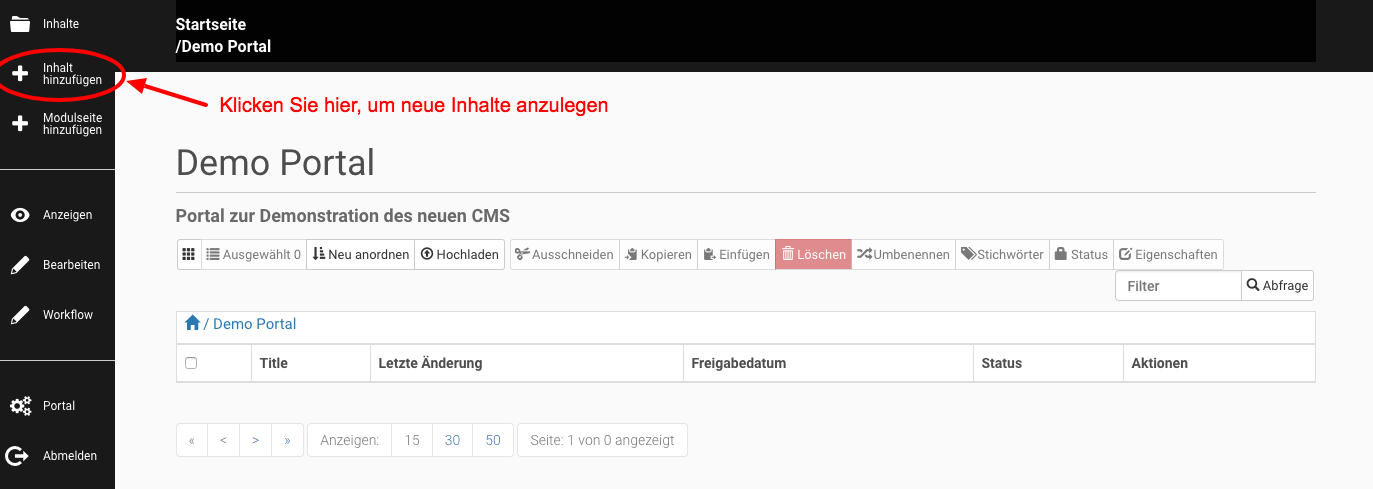
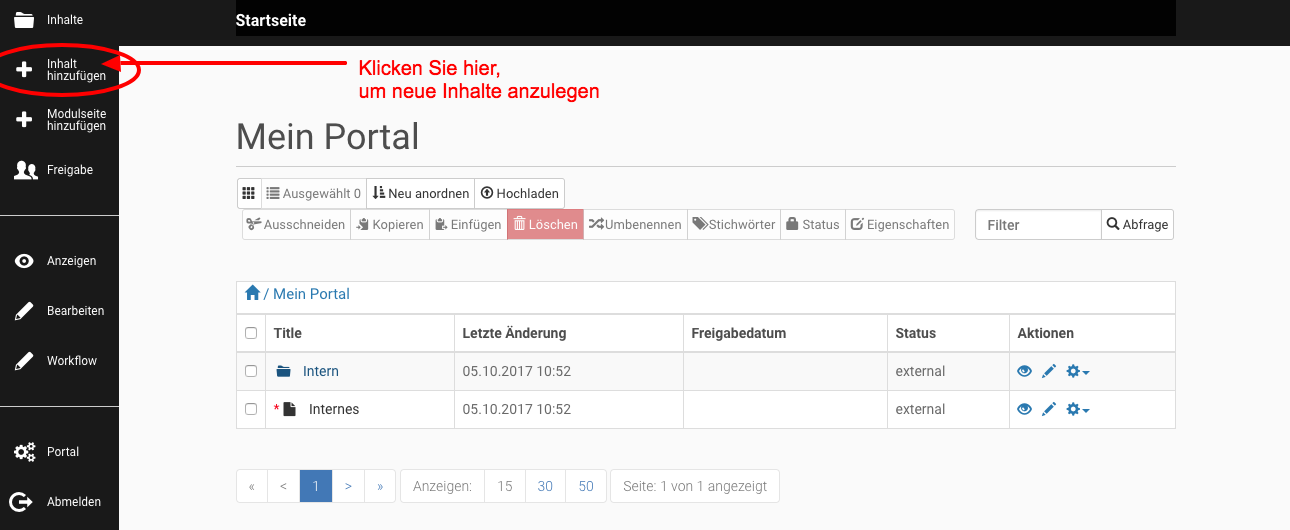
added screenshots and texts to tutorial page #15949

Changed region(s): [[0.0, 0.0307, 1.0, 1.0], [0.124, 0.4908, 0.9612, 0.7975], [0.2171, 0.8896, 0.5891, 0.9509]]

diff --git a/_posts/konzepte/2017-09-29-tutorial-neues-portal.md b/_posts/konzepte/2017-09-29-tutorial-neues-portal.md
@@ -15,42 +15,96 @@ breadcrumbs:
 - title: Unterstützung
 ---
 
-Dieses Tutorial zeigt Ihnen, wie Sie in einem neu angelegten Portal erste Inhalte anlegen und auf einer Startseite präsentieren. 
+Hier lernen Sie, wie Sie in einem neu angelegten Portal erste Inhalte anlegen und auf einer Startseite präsentieren. 
 
-### Was ist ein Portal?
+Das Tutorial ist aufgegliedert in die folgenden Lernabschnitte:
 
-Ein Portal besteht aus Modulseiten und Inhaltsseiten. Für Ihre Site benötigen Sie Inhalte und Modulseiten. Inhalte sind Texte, Bilder, Nachrichten und Termine. Modulseiten zeigen diese Inhalte dann strukturiert an. Deshalb beginnen Sie am besten mit einigen Inhaltsseiten. (Nähere Informationen zu Inhaltsseiten, Modulseiten und Modulen finden Sie <a href="/kommsite-howto-2">hier</a>)
+[1. Was ist ein Portal](#1-was-ist-ein-portal)
 
-Wenn Sie eingeloggt sind und die Berechtigung haben, das Portal zu bearbeiten, sehen Sie am linken Rand der Ansicht die Werkzeugleiste. 
+[2. Anmelden um ein Portal zu bearbeiten](#2-anmelden-um-ein-portal-zu-bearbeiten)
+
+[3. Inhalte verwalten in einem Portal](#3-inhalte-verwalten-in-einem-portal)
+
+[4. Inhaltsseiten erstellen und bearbeiten](#4-inhaltsseiten-erstellen-und-bearbeiten)
+
+[5. Modulseiten erstellen und bearbeiten](#5-modulseiten-erstellen-und-bearbeiten)
+
+[6. Module einer Modulseite hinzufügen und bearbeiten](#6-module-einer-modulseite-hinzufügen-und-bearbeiten)
+
+[7. Hero-Bild für Ihre Modulseite einrichten](#7-hero-bild-für-ihre-modulseite-einrichten)
+
+[8. Seite als Startseite für ein Portal einrichten](#8-seite-als-startseite-für-ein-portal-einrichten)
+
+[9. Navigation für ein Portal einrichten](#9-navigation-für-ein-portal-einrichten)
+
+
+### 1. Was ist ein Portal?
+
+Ein Portal ist ein eigener "Bereich" innerhalb des UniBwM-Webauftritts. Es besteht aus Modulseiten und Inhaltsseiten sowie einer Navigation, die den Besucher auf die Bereiche Ihres Portals führt. 
+
+Für Ihr Portal benötigen Sie Inhalte und Modulseiten. 
+Inhaltsseiten beinhalten die Informationen, die Sie Besuchern der Seite vermitteln wollen. Das können Artikel, Bilder, Nachrichten, Termine und andere Inhaltstypen sein.
+Modulseiten sind "Überblicks-Seiten", sie sollen den Besucher durch Ihr Portal führen. Dazu werden Modulseiten aus mehreren Modulen aufgebaut, die Informationen enthalten. 
+Die meisten Module sind eine Art Teaser auf Ihre Inhaltsseiten. 
+
+Nähere Informationen zu Inhaltsseiten, Modulseiten und Modulen finden Sie <a href="/kommsite-howto-2">hier</a>
+
+### 2. Anmelden um ein Portal zu bearbeiten
+
+Um Ihr eigenes Portal innerhalb des UniBW Webauftrittes zu bearbeiten, müssen Sie sich zuerst auf dem Server anmelden.
+Dazu rufen Sie die URL Ihres Portals in einem Browser Ihrer Wahl auf, die Sie vom ServiceDesk des Rechenzentrums erhalten haben. Z.B. 
+"https://staging.rz.unibw-muenchen.de/mein-portal"  und klicken Sie im Footer auf "Login".
+
+<img src="media/kommsite/screens_howtos/howto_portal_login_link.png">
+
+Geben Ihre **RZ-Kennung** und Ihr **Passwort** in die Anmeldemaske ein und klicken Sie auf "Anmelden".
+
+<img src="media/kommsite/screens_howtos/howto_portal_login.png">
+
+Sie sind nun auf Ihrem eigenen Portal des Webauftrittes der UniBwM eingeloggt und können dieses nach Ihren Wünschen und Vorstellungen gestalten.
+
+### 3. Inhalte verwalten in einem Portal
+
+Wenn Sie angemeldet sind und die Berechtigung haben, das Portal zu bearbeiten, sehen Sie am linken Rand der Ansicht die Werkzeugleiste.
+
+Klicken Sie in der Werkzeugleiste auf "Inhalte". 
 
 <img src="media/kommsite/screens_howtos/howto_portal_werkzeugleiste.png">
 
-### Inhalte verwalten in einem Portal
+Falls Sie keine Werkzeugleiste sehen, wenden Sie sich bitte an das WebTeam unter <a class="btn btn-lg btn-theme-colored" href="mailto:support@unibw.de"><i class="fa fa-envelope-o"></i> support@unibw.de</a>
 
-Klicken Sie in der Werkzeugleiste auf "Inhalte". Dies ist die Ansicht, in der Sie bestehende Inhalte verwalten und neue hinzufügen können. Momentan ist hier noch nicht viel zu sehen. Sobald Sie neue Inhalte anlegen werden diese hier aufgelistet.
+Dies ist die Ansicht, in der Sie bereits vorhandene Inhalte verwalten und neue hinzufügen können. Momentan ist hier noch nicht viel zu sehen, da Ihr Portal außer einem vorangelegten Ordner "Intern" und einer Seite "Internes" noch keine Inhalte enthält. 
+
+Sobald Sie neue Inhalte anlegen werden diese hier aufgelistet.
 
 <img src="media/kommsite/screens_howtos/howto_portal_folder_contents.png">
 
-### Inhalte anlegen in einem Portal
+### 4. Inhaltsseiten erstellen und bearbeiten
 
-Klicken Sie auf "Inhalt hinzufügen". 
+Um Informationen auf Ihrem Portal bereitzustellen benötigen wir zuerst einige Inhaltsseiten. die diese Informationen enthalten.
+
+Klicken Sie auf "Inhalt hinzufügen" um eine Inhaltsseite zu erstellen. 
 
 <img src="media/kommsite/screens_howtos/howto_portal_add_content.png">
 
 Es öffnet sich ein Dialog, der verschiedene Typen von Inhaltsseiten anbietet. 
-Wählen Sie die "Artikelseite". Dies ist eine generische Inhaltsseite, die sich für verschiedenste Arten von Inhalten eignet.
+Wählen Sie die "Artikelseite". Dies ist eine generische Inhaltsseite, die sich für verschiedenste Arten von Inhalten wie Texte, Auflistungen, Bilder usw. eignet.
 
 <img src="media/kommsite/screens_howtos/howto_portal_add_article.png">
 
-Im folgenden Formular geben Sie einen Titel ein, der als Überschrift für Ihre Seite fungiert. Geben Sie im Feld "Beschreibung" ein oder zwei Sätze ein, die den Inhalt kurz zusammenfassen. Die Beschreibung ist optional; es empfiehlt sich aber, sie zu verwenden, da viele Module darauf zurück greifen. Unter "Text" erstellen Sie den eigentlichen Inhalt. Sie können hier auch z.B. Links setzen und Bilder einbinden. Ein besonders repräsentatives Bild sollten Sie im Feld "Teaserbild" auswählen. Das Teaserbild wird von verschiedenen Modulen benutzt, um eine Vorschau auf Inhalte darzustellen. Die weiteren Felder lassen Sie auf den Standardeinstellungen und klicken "Speichern". 
+Im folgenden Formular geben Sie einen Titel ein, der als Überschrift für Ihre Seite angezeigt wird. Geben Sie im Feld "Beschreibung" ein oder zwei Sätze ein, die den Inhalt kurz zusammenfassen. Die Beschreibung ist optional; es empfiehlt sich aber, sie zu verwenden, da viele Module darauf zurück greifen. Unter "Text" erstellen Sie den eigentlichen Inhalt. Sie können hier auch z.B. Links setzen und Bilder einbinden. Ein besonders repräsentatives Bild sollten Sie im Feld "Teaserbild" auswählen. Das Teaserbild wird später von verschiedenen Modulen benutzt, um eine Vorschau auf die Inhaltsseite darzustellen. 
+Die weiteren Felder lassen Sie auf den Standardeinstellungen und klicken "Speichern". 
 
 <img src="media/kommsite/screens_howtos/howto_portal_edit_article.png">
 
 Sie sehen jetzt Ihre neu angelegte Inhaltsseite!
 
-Um noch etwas mehr Material für eine Modulseite zu haben, legen Sie zunächst noch eine Nachricht an. Klicken Sie wieder in der Werzeugleiste auf "Inhalte" und dann auf "Inhalt hinzufügen". Wählen Sie diesmal den Typ "Nachricht". Diese Art von Inhaltsseite ist für eine aktuelle Mitteilung gedacht. Auch hier füllen Sie Titel, Beschreibung und Text aus. Unter "Teaserbild" wählen Sie ein Bild, das die Nachricht begleitet, d.h. in Nachrichtenübersichten u.ä. angezeigt wird. Die "Legende zum Teaserbild" sollte ein Wort oder ein kurzer Satz als Bildunterschrift sein. Klicken Sie auf Speichern und sehen Sie sich Ihre frisch erstellte Nachricht an!
+Um noch etwas mehr Material für eine Modulseite zu haben, legen Sie auf diese Weise gleich noch ein paar weitere Inhaltsseiten an. 
 
-### Modulseite anlegen in einem Portal
+### 5. Modulseiten erstellen und bearbeiten
+
+Wie oben bereits erklärt gibt es neben den Inhaltsseiten die Modulseiten, in denen wir verschiedene Inhalte miteinander kombinieren können.<br />
+Modulseiten sind Überblicksseiten, die den Besucher auf die einzelnen Inhaltsseiten führt.
 
 Nun legen Sie eine Modulseite als Startseite für das Portal an. 
 
@@ -58,38 +112,173 @@ Dazu gehen Sie wieder in die "Inhalte"-Ansicht und wählen diesmal "Modulseite h
 
 <img src="media/kommsite/screens_howtos/howto_portal_add_mpage.png">
 
-Der folgende Dialog bietet verschiedene Vorlagen zur Auswahl, die bereits mit einigen Modulen vorbelegt sind. Fürs Erste wählen Sie einfach die "Leere Modulseite", geben Sie einen Titel ein (z.B. "Startseite") und klicken "Eine Seite mit dieser Vorlage anlegen".
+Der folgende Dialog bietet verschiedene Vorlagen zur Auswahl, die bereits mit einigen Modulen vorbelegt sind. Für Ihre Startseite wählen Sie einfach die "Leere Modulseite", geben Sie einen Titel ein (z.B. "Startseite") und klicken "Eine Seite mit dieser Vorlage anlegen".
 
 <img src="media/kommsite/screens_howtos/howto_portal_add_empty_mpage.png">
 
-### Module einer Modulseite hinzufügen und bearbeiten
+### 6. Module einer Modulseite hinzufügen und bearbeiten
 
-Sie gelangen als nächstes zur Bearbeitungsansicht Ihrer neuen Modulseite. Sie sehen das einzige enthaltene Modul, den Aufmachertext, als Kasten mit einer Vorschau auf den Inhalt. Klicken Sie das Modul an. Es erscheinen Schaltflächen zum Bearbeiten und Löschen. 
+Sie gelangen als nächstes zur Bearbeitungsansicht Ihrer neuen Modulseite. Hier werden die Module hinzugefügt, die die Modulseite aufbauen.<br />
+Ein “Modul” ist ein vollbreiter Block auf einer Webseite, der Informationen - also “Inhalte” - enthält.
 
-<img src="media/kommsite/screens_howtos/howto_portal_show_module.png">
+Sie sehen auf Ihrer neu angelegten Modulseite das einzige enthaltene Modul, den Aufmachertext, als Kasten mit einer Vorschau auf den Inhalt.<br />
+Klicken Sie das Modul an. Es erscheinen Schaltflächen zum Bearbeiten und Löschen. 
+
+<img src="media/kommsite/screens_howtos/howto_portal_edit_module.png">
 
 Klicken Sie "Bearbeiten" und ersetzen Sie den Platzhaltertext durch einen eigenen Text. Klicken Sie danach "Sichern". 
 
-<img src="media/kommsite/screens_howtos/howto_portal_edit_module.png">
+<img src="media/kommsite/screens_howtos/howto_portal_show_module.png">
 
 Das Aufmachertext-Modul wird aktualisiert und Sie sehen Ihren Text in der Vorschau.
 
 <img src="media/kommsite/screens_howtos/howto_portal_show_changes.png">
 
-Beachten Sie, dass Ihre Änderungen noch nicht aktiv sind, so lange Sie noch in der Bearbeitungsansicht sind. Bestätigen Sie jetzt Ihre Änderungen an der Modulseite mit der "Speichern"-Schaltfläche unterhalb des Modulvorschau-Bereichs. 
+Beachten Sie, dass Ihre Änderungen noch nicht aktiv sind, so lange Sie noch in der Bearbeitungsansicht sind. 
+
+Bestätigen Sie jetzt Ihre Änderungen an der Modulseite mit der "Speichern"-Schaltfläche unterhalb des Modulvorschau-Bereichs. 
 
 <img src="media/kommsite/screens_howtos/howto_portal_page_save.png">
 
-Sie gelangen zur Standardansicht der Modulseite und Ihre Änderungen sind jetzt gespeichert und sichtbar. Der Text, den Sie in das Aufmachertext-Modul eingegeben haben, wird unterhalb der Überschrift dargestellt.
+Sie gelangen zur Standardansicht der Modulseite und Ihre Änderungen sind jetzt gespeichert und sichtbar.<br />
+Der Text, den Sie in das Aufmachertext-Modul eingegeben haben, wird unterhalb der Überschrift dargestellt.
 
 <img src="media/kommsite/screens_howtos/howto_portal_page_view.png">
 
-Nun wird es Zeit, die Inhaltsseiten einzubinden. Beginnen Sie mit der Artikelseite. Dazu aktivieren Sie wieder über die Schaltfläche "Bearbeiten" in der Werkzeugleiste den Bearbeitungsmodus der Modulseite. Klicken Sie nun in der Werkzeugleiste auf "Modul einfügen". Wählen Sie aus den angebotenen Modulen "Text mit Bild oder Video". Sie sehen das neue Modul als Kasten, der Ihrem Mauszeiger folgt. Wenn Sie den Kasten in die Nähe des vorhandenen Moduls bewegen, erscheint eine blaue Linie, die signalisiert, dass das Modul an dieser Stelle eingefügt wird. Wenn diese Linie erscheint, klicken Sie die linke Maustaste. Das Modul erscheint an der entsprechenden Stelle.
+Nun wird es Zeit, die Inhaltsseiten einzubinden. 
 
-Klicken Sie nun das neue Modul an und wählen Sie, wie zuvor beim Aufmachertext, "Bearbeiten". Im Formular, das sich öffnet, wählen Sie unter "Element auswählen" die zuvor angelegte Artikelseite, indem Sie zunächst auf "Browsen" klicken. Dadurch erscheint eine Liste der Inhalte im Portal. Wählen Sie daraus Ihre Artikelseite aus. Die restlichen Formularelemente beschäftigen sich mit Layouteinstellungen und können zunächst auf den Standardwerten belassen werden. Nach einem Klick auf "Sichern" sehen Sie wieder die Bearbeitungsansicht der Modulseite. In Ihrem neuen Modul wird nun der Titel der gewählten Artikelseite angezeigt.
+Dazu wechseln Sie wieder über die Schaltfläche "Bearbeiten" in der Werkzeugleiste in den Bearbeitungsmodus der Modulseite. 
 
-Als nächstes fügen Sie ein Nachrichten-Modul hinzu, das die zuvor erstellte Nachricht und zukünftig erstellte Nachrichten darstellt. Klicken Sie in der Werkzeugleiste wieder "Modul einfügen" und wählen Sie diesmal das Modul "Nachrichten". Wie das vorige Modul fügen Sie es mit einem Mausklick ein, wenn die blaue Linie an der richtigen Stelle ist. Versuchen Sie, das neue Modul zwischen den beiden existierenden Modulen einzufügen.
+<img src="media/kommsite/screens_howtos/howto_portal_page_edit.png">
 
-Dieses Modul zeigt mit den Standardeinstellungen bereits die im Portal vorhandenen Nachrichten an. Sie brauchen es also nicht zu bearbeiten. Klicken Sie direkt "Speichern" um das Bearbeiten der Modulseite zu beenden. Sie gelangen wieder zur Standardansicht. Jetzt befinden sich unterhalb des Aufmachertextes ihre beiden neuen Module: Das Nachrichten-Modul zeigt die zuvor angelegte Nachricht an, und das "Text mit Bild oder Video"-Modul zeigt Titel, Beschreibung und Teaserbild Ihrer Artikelseite an. Klicken Sie eines der Module an, um zu den Inhaltsseiten zu gelangen und die kompletten Texte zu sehen.
+Klicken Sie nun in der Werkzeugleiste auf "Modul einfügen". 
 
-Damit Ihre neue Modulseite als Startseite des Portals angezeigt wird, gehen Sie über die Werkzeugleiste in die "Inhalte"-Ansicht. Finden Sie in der Tabelle Ihre Modulseite und klicken Sie in der letzten Spalte das Zahnradsymbol an. Im Kontextmenü wählen Sie die Option "Als Standardseite festlegen". Nun sieht ein Besucher Ihres Portals zuerst die von Ihnen gestaltete Modulseite!
+<img src="media/kommsite/screens_howtos/howto_portal_module_add.png">
+
+Es erscheint eine Liste der verfügbaren Module. Scrollen Sie nun mit der Maus nach unten und Wählen Sie das Modul"Text mit Bild oder Video". 
+
+<img src="media/kommsite/screens_howtos/howto_portal_module_select.png">
+
+Sie sehen das neue Modul als Kasten, der Ihrem Mauszeiger folgt. Wenn Sie den Kasten in die Nähe des vorhandenen Moduls bewegen, erscheint eine blaue Linie, die signalisiert, dass das Modul an dieser Stelle eingefügt wird. Wenn diese Linie erscheint, klicken Sie die linke Maustaste. Das Modul erscheint an der entsprechenden Stelle.
+
+<img src="media/kommsite/screens_howtos/howto_portal_module_insert.png">
+
+Klicken Sie nun das neue Modul an und wählen Sie, wie zuvor beim Aufmachertext, "Bearbeiten". 
+
+Im Formular, das sich öffnet, wählen Sie unter "Element auswählen" die zuvor angelegte Artikelseite, indem Sie zunächst auf "Browsen" klicken. <br />
+Dadurch erscheint eine Liste der Inhalte im Portal.<br />
+Wählen Sie daraus Ihre Artikelseite aus. 
+
+<img src="media/kommsite/screens_howtos/howto_portal_module_new_browse.png">
+
+Die restlichen Formularelemente beschäftigen sich mit Layouteinstellungen und können zunächst auf den Standardwerten belassen werden.<br />
+Nach einem Klick auf "Sichern" sehen Sie wieder die Bearbeitungsansicht der Modulseite. 
+
+<img src="media/kommsite/screens_howtos/howto_portal_module_new_edit.png">
+
+In Ihrem neuen Modul wird nun der Titel der gewählten Artikelseite angezeigt.<br />
+Kicken Sie auf die Schaltfläche "Speichern" am unteren Ende der Seite, um die Änderungen an Ihrer Modulseite zu speichern.
+
+<img src="media/kommsite/screens_howtos/howto_portal_module_new_save.png">
+
+### 7. Hero-Bild für Ihre Modulseite einrichten
+
+Um die Modulseite noch etwas ansprechender zu gestalten können Sie für den Header-Bereich der Seite eine seitenbreite Hintergrundgrafik - ein Hero-Bild - einfügen.
+
+Wechseln Sie dazu zuerst wieder in den Bearbeiten-Modus der Modulseite, indem Sie auf die Schaltfläche "Bearbeiten" in der Werkzeugleiste klicken.
+
+<img src="media/kommsite/screens_howtos/howto_portal_page_edit_hero.png">
+
+Dann klicken Sie auf die Schaltfläche "Eigenschaften" in der Werkzeugleiste um die Objekteigenschaften der Seite zu bearbeiten.
+
+<img src="media/kommsite/screens_howtos/howto_portal_page_settings_open.png">
+
+Sie sehen verschiedene Reiter, die unterschiedliche Eigenschaften der Seite bearbeitbar machen. 
+
+Wählen Sie den Reiter "Standard". 
+
+<img src="media/kommsite/screens_howtos/howto_portal_page_settings_default.png">
+
+Hier finden Sie die aktuellen Werte für Titel und Beschreibungstext der Modulseite. 
+
+Um ein Hero-Bild für die Seite anzugeben, müssen Sie unter "Teaserbild" eine von Ihnen gewünschte Bilddatei auf Ihrer lokalen Festplatte auswählen.<br />
+Es ist auch möglich hier mehrere Bilder in einem Karussell anzuzeigen oder eine Video-Datei einzubinden. <br />
+Für unser Beispiel wählen Sie aber bitte die Option "Teaserbild" für den Aufmacherbereich aus.
+
+Klicken Sie auf "Sichern", um die Änderungen zu speichern
+
+<img src="media/kommsite/screens_howtos/howto_portal_page_settings_edit.png">
+
+Kicken Sie dann auf die Schaltfläche "Speichern" am unteren Ende der Seite, um die Änderungen an Ihrer Modulseite zu speichern und die Seite anzuzeigen.
+
+Die Modulseite enthält nun ein Hero-Bild als Hintergrund für den Headerbereich.
+
+<img src="media/kommsite/screens_howtos/howto_portal_page_hero_view.png">
+
+### 8. Seite als Startseite für ein Portal einrichten
+
+Damit Ihre neue Modulseite als Startseite des Portals angezeigt wird, gehen Sie über die Werkzeugleiste in die "Inhalte"-Ansicht. 
+
+Finden Sie in der Tabelle Ihre Modulseite und klicken Sie in der letzten Spalte das Zahnradsymbol an. Im Kontextmenü wählen Sie die Option "Als Standardseite festlegen". 
+
+<img src="media/kommsite/screens_howtos/howto_portal_set_default_page.png">
+
+Nun sieht ein Besucher Ihres Portals zuerst die von Ihnen gestaltete Modulseite!
+Sie erkennen die Startseite eines Portals oder Ordners der Markierung in der Listenansicht (rotes Sternchen).
+
+<img src="media/kommsite/screens_howtos/howto_portal_mark_default_page.png">
+
+### 9. Navigation für ein Portal einrichten
+
+Nachdem Sie nun gelernt haben, wie man in einem Portal Inhalte und Modulseiten erstellt und pflegt, lernen Sie in diesem Kapitel, wie Sie die Navigation für Ihr Portal eingerichten und editieren können.
+
+Hierzu klicken Sie bitte in der Werkzeugleiste Ihres Portals auf die Schaltfläche "Portal", um die Einstellungen für Ihr Portal zu öffnen.
+
+<img src="media/kommsite/screens_howtos/howto_portal_psettings_open.png">
+
+Hier finden Sie unter anderem die Bearbeitungsoberfläche für die Navigation Ihres Portals. 
+
+Klicken Sie nun auf die Schaltfläche "Suchen" unter dem Punkt "Primärmenü" um die Liste der Seiten in Ihrem Portal anzuzeigen.<br />
+Wählen Sie eine der von Ihnen angelegten Seiten - Modulseite oder Inhaltsseite, das ist beides möglich. 
+
+Auf diese Weise können Sie beliebig viele Navigationselemente anlegen.
+
+<img src="media/kommsite/screens_howtos/howto_portal_psettings_nav_add.png">
+
+Das neu angelegte Navigationselement wird nun unterhalb des Suchfeldes durch den Titel der gewählten Seite angezeigt.
+
+<img src="media/kommsite/screens_howtos/howto_portal_psettings_nav_show.png">
+
+Klicken Sie nun auf eines der neu erstellten Navigationselemente um dieses zu editieren.
+
+In der sich öffnenden Maske können Sie den Titel und den Link des Navigationselementes ändern. Klicken Sie nach der Änderung auf die Schaltfläche "Sichern", um Ihre Änderungen zu speichern. So können Sie auch Navigationselemente löschen.
+
+<img src="media/kommsite/screens_howtos/howto_portal_psettings_nav_edit.png">
+
+Um die Reihenfolge der Navigationselemente zu verändern, klicken Sie auf das Element, welches Sie verschieben wollen und ziehen dieses mit gedrückter Maustaste nach oben oder unten. Erscheint eine blaue Linie ober- oder unterhalb eines Navigationselementes markiert diese die neue Position des bewegten Elementes.<br />
+Ist die gewünschte Position blau markiert, lassen Sie die Maustaste los und das Element wird an dieser Stelle eingefügt. 
+
+<img src="media/kommsite/screens_howtos/howto_portal_psettings_nav_move1.png">
+
+Sie können auch eine zweite Hierarchieebene in der Navigation einfügen, indem Sie ein Navigationselement genau über ein anderes Navigationselement ziehen.<br />
+Ist das Element an der richtigen Position, erscheint ein blauer Rahmen um das unten liegende Element und bei Loslassen der Maus wird das geänderte Navigationselement als Subnavigations-Element eingefügt. 
+
+<img src="media/kommsite/screens_howtos/howto_portal_psettings_nav_move2.png">
+
+Die so entstandene Subnavigation wird etwas eingerückt unterhalb des Hauptnavigationselementes angezeigt.
+
+<img src="media/kommsite/screens_howtos/howto_portal_psettings_nav_sub.png">
+
+Um die Änderungen an der Navigation zu speichern vergessen Sie nicht, die Schaltfläche "Sichern" am unteren Ende der Seite zu klicken. 
+
+<img src="media/kommsite/screens_howtos/howto_portal_psettings_nav_save.png">
+
+Wählen Sie nun die Option "Anzeigen" in der Werkzeugleiste, um Ihr Portal mit der neu erstellten Navigation anzusehen. 
+
+<img src="media/kommsite/screens_howtos/howto_portal_page_show.png">
+
+Die von Ihnen neu angelegten Navigationselemente sind nun als Hauptnavigation in Ihrer Portalseite zu sehen.
+
+<img src="media/kommsite/screens_howtos/howto_portal_navigation_show.png">
+
+Herzlichen Glückwunsch zu Ihrem neuen Portal!
